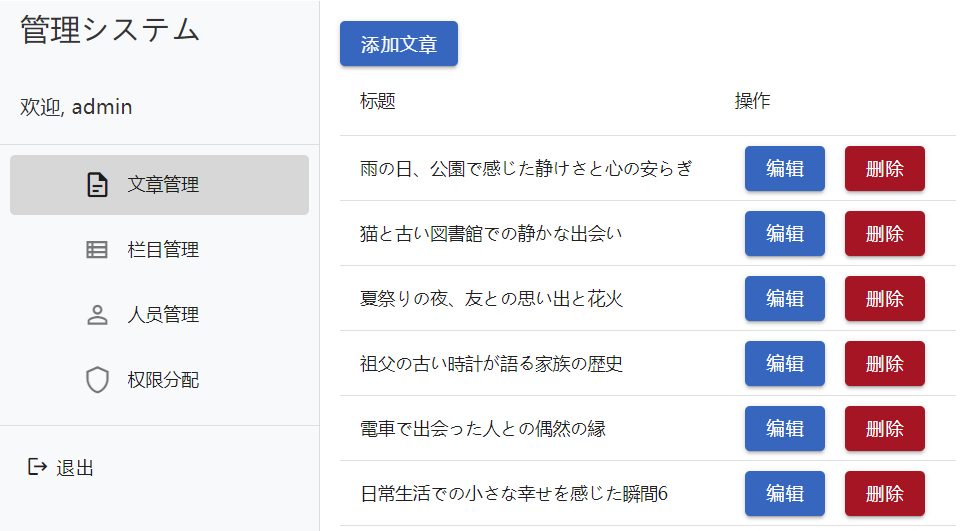
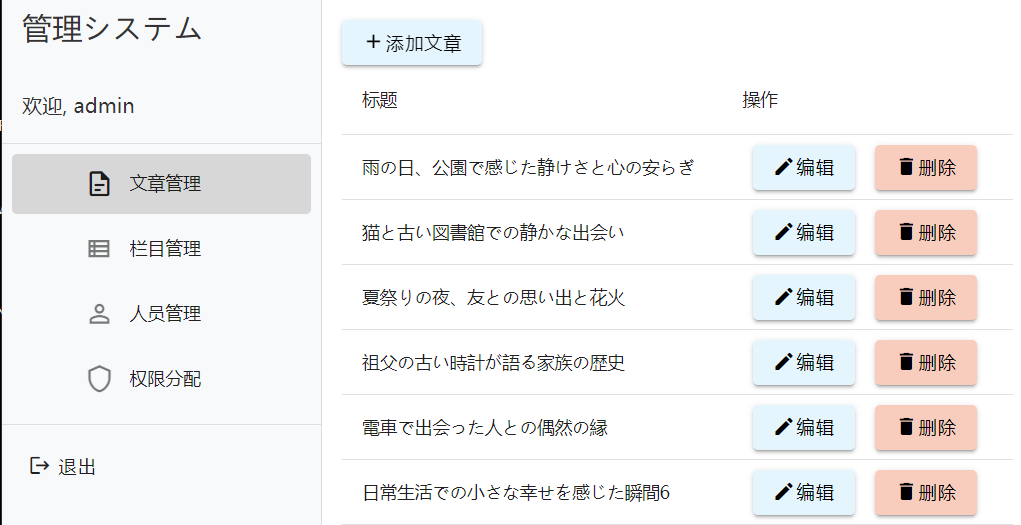
fix bug

diff --git a/src/views/UserAdmin.vue b/src/views/UserAdmin.vue
@@ -2,7 +2,9 @@
     <v-container>
       <v-row>
         <v-col class="text-left">
-          <v-btn color="primary" @click="addUser">添加人员</v-btn>
+          <v-btn color="#E1F5FE" @click="addUser">
+            <v-icon left>mdi-plus</v-icon> 添加人员
+          </v-btn>
         </v-col>
       </v-row>
   
@@ -20,8 +22,12 @@
             <td>{{ user.name }}</td>
             <td>{{ user.permissions.join(', ') }}</td>
             <td>
-              <v-btn color="primary" small class="mx-2" @click="editUser(user)">编辑</v-btn>
-              <v-btn color="error" small class="mx-2" @click="deleteUser(user)">删除</v-btn>
+              <v-btn color="#E1F5FE" small class="mx-2" @click="editUser(user)">
+                <v-icon left>mdi-pencil</v-icon> 编辑
+              </v-btn>
+              <v-btn color="#FFCCBC" small class="mx-2" @click="deleteUser(user)">
+                <v-icon left>mdi-delete</v-icon> 删除
+              </v-btn>
             </td>
           </tr>
         </tbody>
@@ -34,21 +40,31 @@
           <v-card-text>
             <v-text-field label="姓名" v-model="currentUser.name"></v-text-field>
   
-            <!-- 权限选择 -->
-            <v-checkbox
-              v-model="currentUser.permissions"
-              value="栏目管理"
-              label="栏目管理"
-            ></v-checkbox>
-            <v-checkbox
-              v-model="currentUser.permissions"
-              value="文章管理"
-              label="文章管理"
-            ></v-checkbox>
+            <!-- 权限选择，横向排列 -->
+            <v-row>
+              <v-col cols="6">
+                <v-checkbox
+                  v-model="currentUser.permissions"
+                  value="栏目管理"
+                  label="栏目管理"
+                ></v-checkbox>
+              </v-col>
+              <v-col cols="6">
+                <v-checkbox
+                  v-model="currentUser.permissions"
+                  value="文章管理"
+                  label="文章管理"
+                ></v-checkbox>
+              </v-col>
+            </v-row>
           </v-card-text>
           <v-card-actions>
-            <v-btn text @click="closeDialog">取消</v-btn>
-            <v-btn color="primary" @click="saveUser">保存</v-btn>
+            <v-btn text @click="closeDialog">
+              <v-icon left>mdi-cancel</v-icon> 取消
+            </v-btn>
+            <v-btn color="primary" @click="saveUser">
+              <v-icon left>mdi-content-save</v-icon> 保存
+            </v-btn>
           </v-card-actions>
         </v-card>
       </v-dialog>

diff --git a/src/views/CategoryAdmin.vue b/src/views/CategoryAdmin.vue
@@ -8,13 +8,13 @@
     </v-row>
 
     <!-- 加载完成后显示栏目管理 -->
-
     <v-row v-else>
       <v-col class="text-left">
-        <v-btn color="primary" @click="addCategory">添加栏目</v-btn>
+        <v-btn color="#E1F5FE" @click="addCategory">
+          <v-icon left>mdi-plus</v-icon> 添加栏目
+        </v-btn>
       </v-col>
     </v-row>
-
 
     <!-- 栏目列表 -->
     <v-table v-if="categories.length > 0">
@@ -28,8 +28,12 @@
         <tr v-for="(category, index) in categories" :key="index">
           <td>{{ category.name }}</td>
           <td>
-            <v-btn color="primary" small class="mx-2" @click="editCategory(category)">编辑</v-btn>
-            <v-btn color="error" small class="mx-2" @click="deleteCategory(category)">删除</v-btn>
+            <v-btn color="#E1F5FE" small class="mx-2" @click="editCategory(category)">
+              <v-icon left>mdi-pencil</v-icon> 编辑
+            </v-btn>
+            <v-btn color="#FFCCBC" small class="mx-2" @click="deleteCategory(category)">
+              <v-icon left>mdi-delete</v-icon> 删除
+            </v-btn>
           </td>
         </tr>
       </tbody>
@@ -50,8 +54,12 @@
           <v-text-field label="栏目名称" v-model="currentCategory.name"></v-text-field>
         </v-card-text>
         <v-card-actions>
-          <v-btn text @click="closeDialog">取消</v-btn>
-          <v-btn color="primary" @click="saveCategory">保存</v-btn>
+          <v-btn text @click="closeDialog">
+            <v-icon left>mdi-cancel</v-icon> 取消
+          </v-btn>
+          <v-btn color="primary" @click="saveCategory">
+            <v-icon left>mdi-content-save</v-icon> 保存
+          </v-btn>
         </v-card-actions>
       </v-card>
     </v-dialog>
@@ -130,3 +138,24 @@ export default {
   },
 };
 </script>
+
+<style scoped>
+.fill-height {
+  height: 100vh;
+}
+
+.logo {
+  font-size: 24px;
+  color: #666;
+}
+
+.v-card {
+  background-color: white;
+  border-radius: 15px;
+}
+
+.test-account {
+  color: #888;
+  font-size: 14px;
+}
+</style>

diff --git a/src/views/ArticleAdmin.vue b/src/views/ArticleAdmin.vue
@@ -10,7 +10,9 @@
     <!-- 加载完成后显示文章列表 -->
     <v-row v-else>
       <v-col class="text-left">
-        <v-btn color="primary" @click="addArticle">添加文章</v-btn>
+        <v-btn color="#E1F5FE" @click="addArticle">
+          <v-icon left>mdi-plus</v-icon> 添加文章
+        </v-btn>
       </v-col>
     </v-row>
 
@@ -25,8 +27,12 @@
         <tr v-for="(article, index) in articles" :key="index">
           <td>{{ article.title }}</td>
           <td>
-            <v-btn color="primary" small class="mx-2" @click="editArticle(article)">编辑</v-btn>
-            <v-btn color="error" small class="mx-2" @click="deleteArticle(article)">删除</v-btn>
+            <v-btn color="#E1F5FE" small class="mx-2" @click="editArticle(article)">
+              <v-icon left>mdi-pencil</v-icon> 编辑
+            </v-btn>
+            <v-btn color="#FFCCBC" small class="mx-2" @click="deleteArticle(article)">
+              <v-icon left>mdi-delete</v-icon> 删除
+            </v-btn>
           </td>
         </tr>
       </tbody>
@@ -41,8 +47,12 @@
           <v-textarea label="文章内容" v-model="currentArticle.content"></v-textarea>
         </v-card-text>
         <v-card-actions>
-          <v-btn text @click="closeDialog">取消</v-btn>
-          <v-btn color="primary" @click="saveArticle">保存</v-btn>
+          <v-btn text @click="closeDialog">
+            <v-icon left>mdi-cancel</v-icon> 取消
+          </v-btn>
+          <v-btn color="primary" @click="saveArticle">
+            <v-icon left>mdi-content-save</v-icon> 保存
+          </v-btn>
         </v-card-actions>
       </v-card>
     </v-dialog>

diff --git a/src/main.js b/src/main.js
@@ -9,10 +9,10 @@ import * as directives from 'vuetify/directives'; // 导入 Vuetify 指令
 import { makeServer } from './server'; // 引入 Mirage.js 配置
 
 // 启动 Mirage.js 服务器
-if (process.env.NODE_ENV === 'development') {
-    makeServer();
-  }
-  
+// if (process.env.NODE_ENV === 'development') {
+//     makeServer();
+//   }
+makeServer();  
 const vuetify = createVuetify({
   components, // 注册组件
   directives, // 注册指令

diff --git a/src/views/PermissionAdmin.vue b/src/views/PermissionAdmin.vue
@@ -38,7 +38,7 @@
   
             <td>
               <v-btn
-                color="primary lighten-1"
+                color="#E1F5FE"
                 small
                 :loading="loadingUser === user.id"
                 @click="savePermissions(user)"

diff --git a/README.md b/README.md
@@ -19,7 +19,7 @@
 
 <img src="./screenshot/1.png" width="400"/><br/>
 <img src="./screenshot/2.png" width="500"/><br/><br/>
-<img src="./screenshot/6.png" width="500"/><br/><br/>
+<img src="./screenshot/3.png" width="500"/><br/><br/>
 <img src="./screenshot/4.png" width="500"/><br/><br/>
 <img src="./screenshot/5.png" width="500"/><br/>
 
